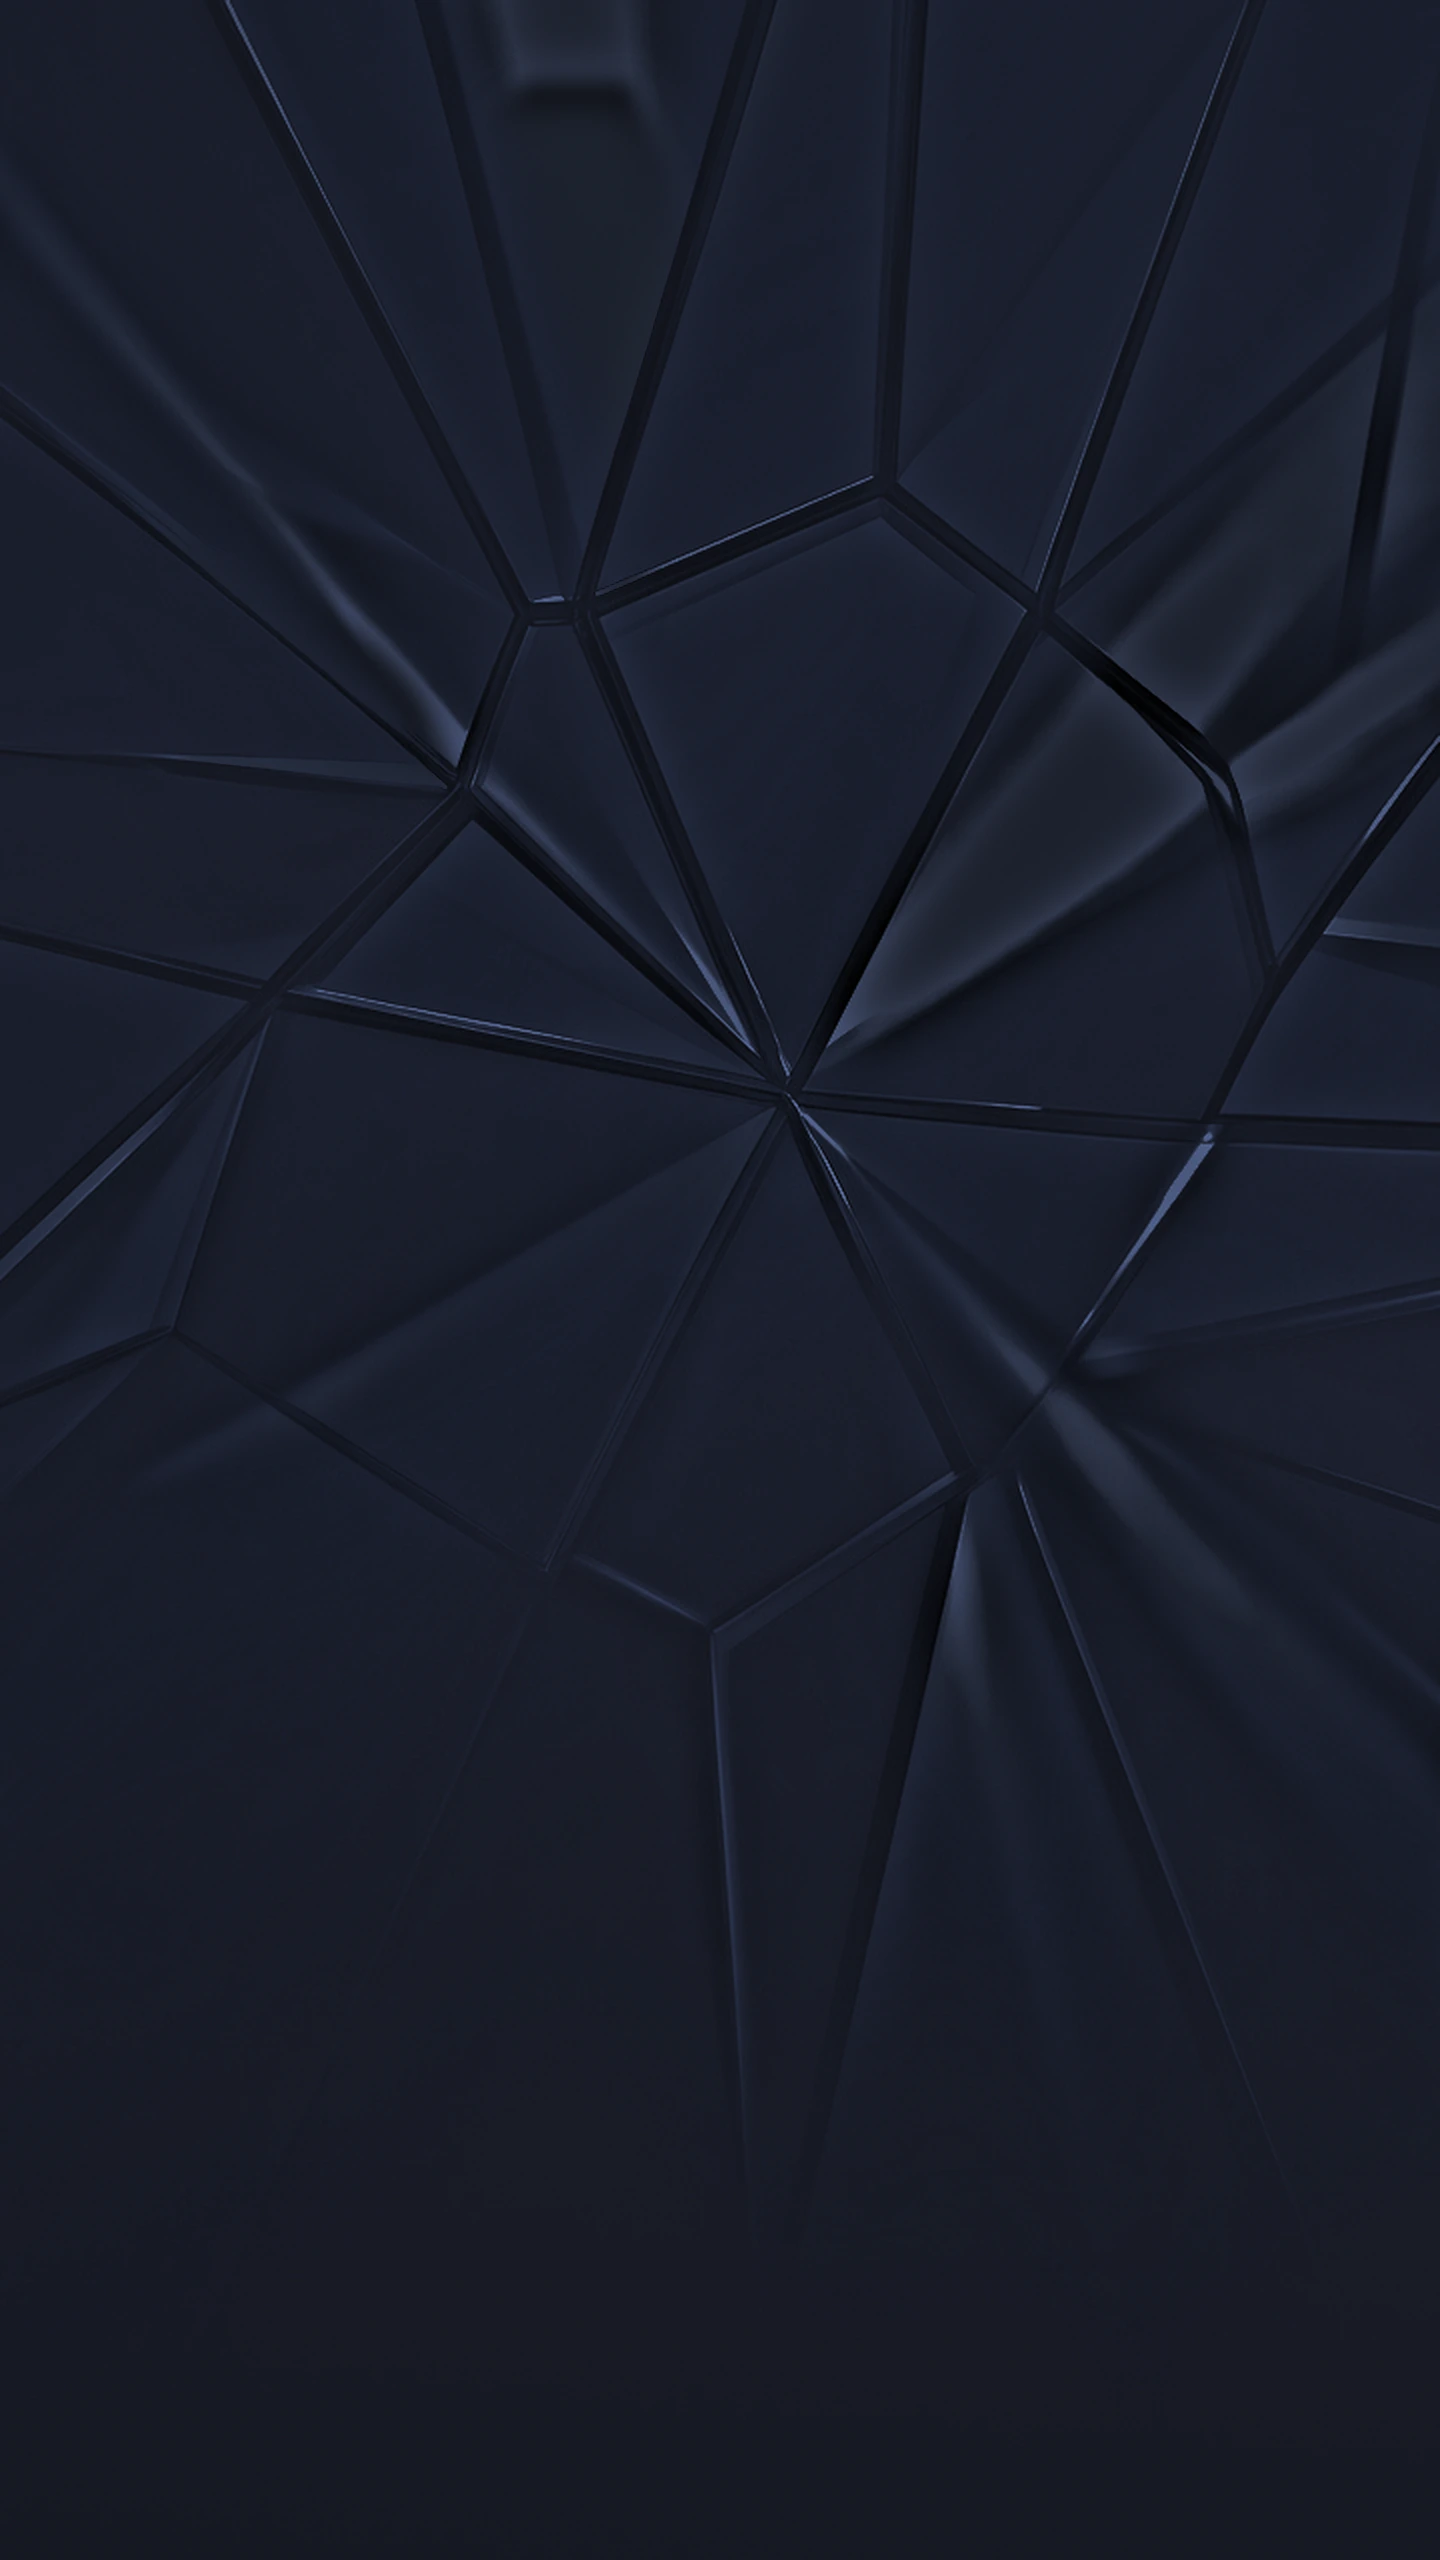
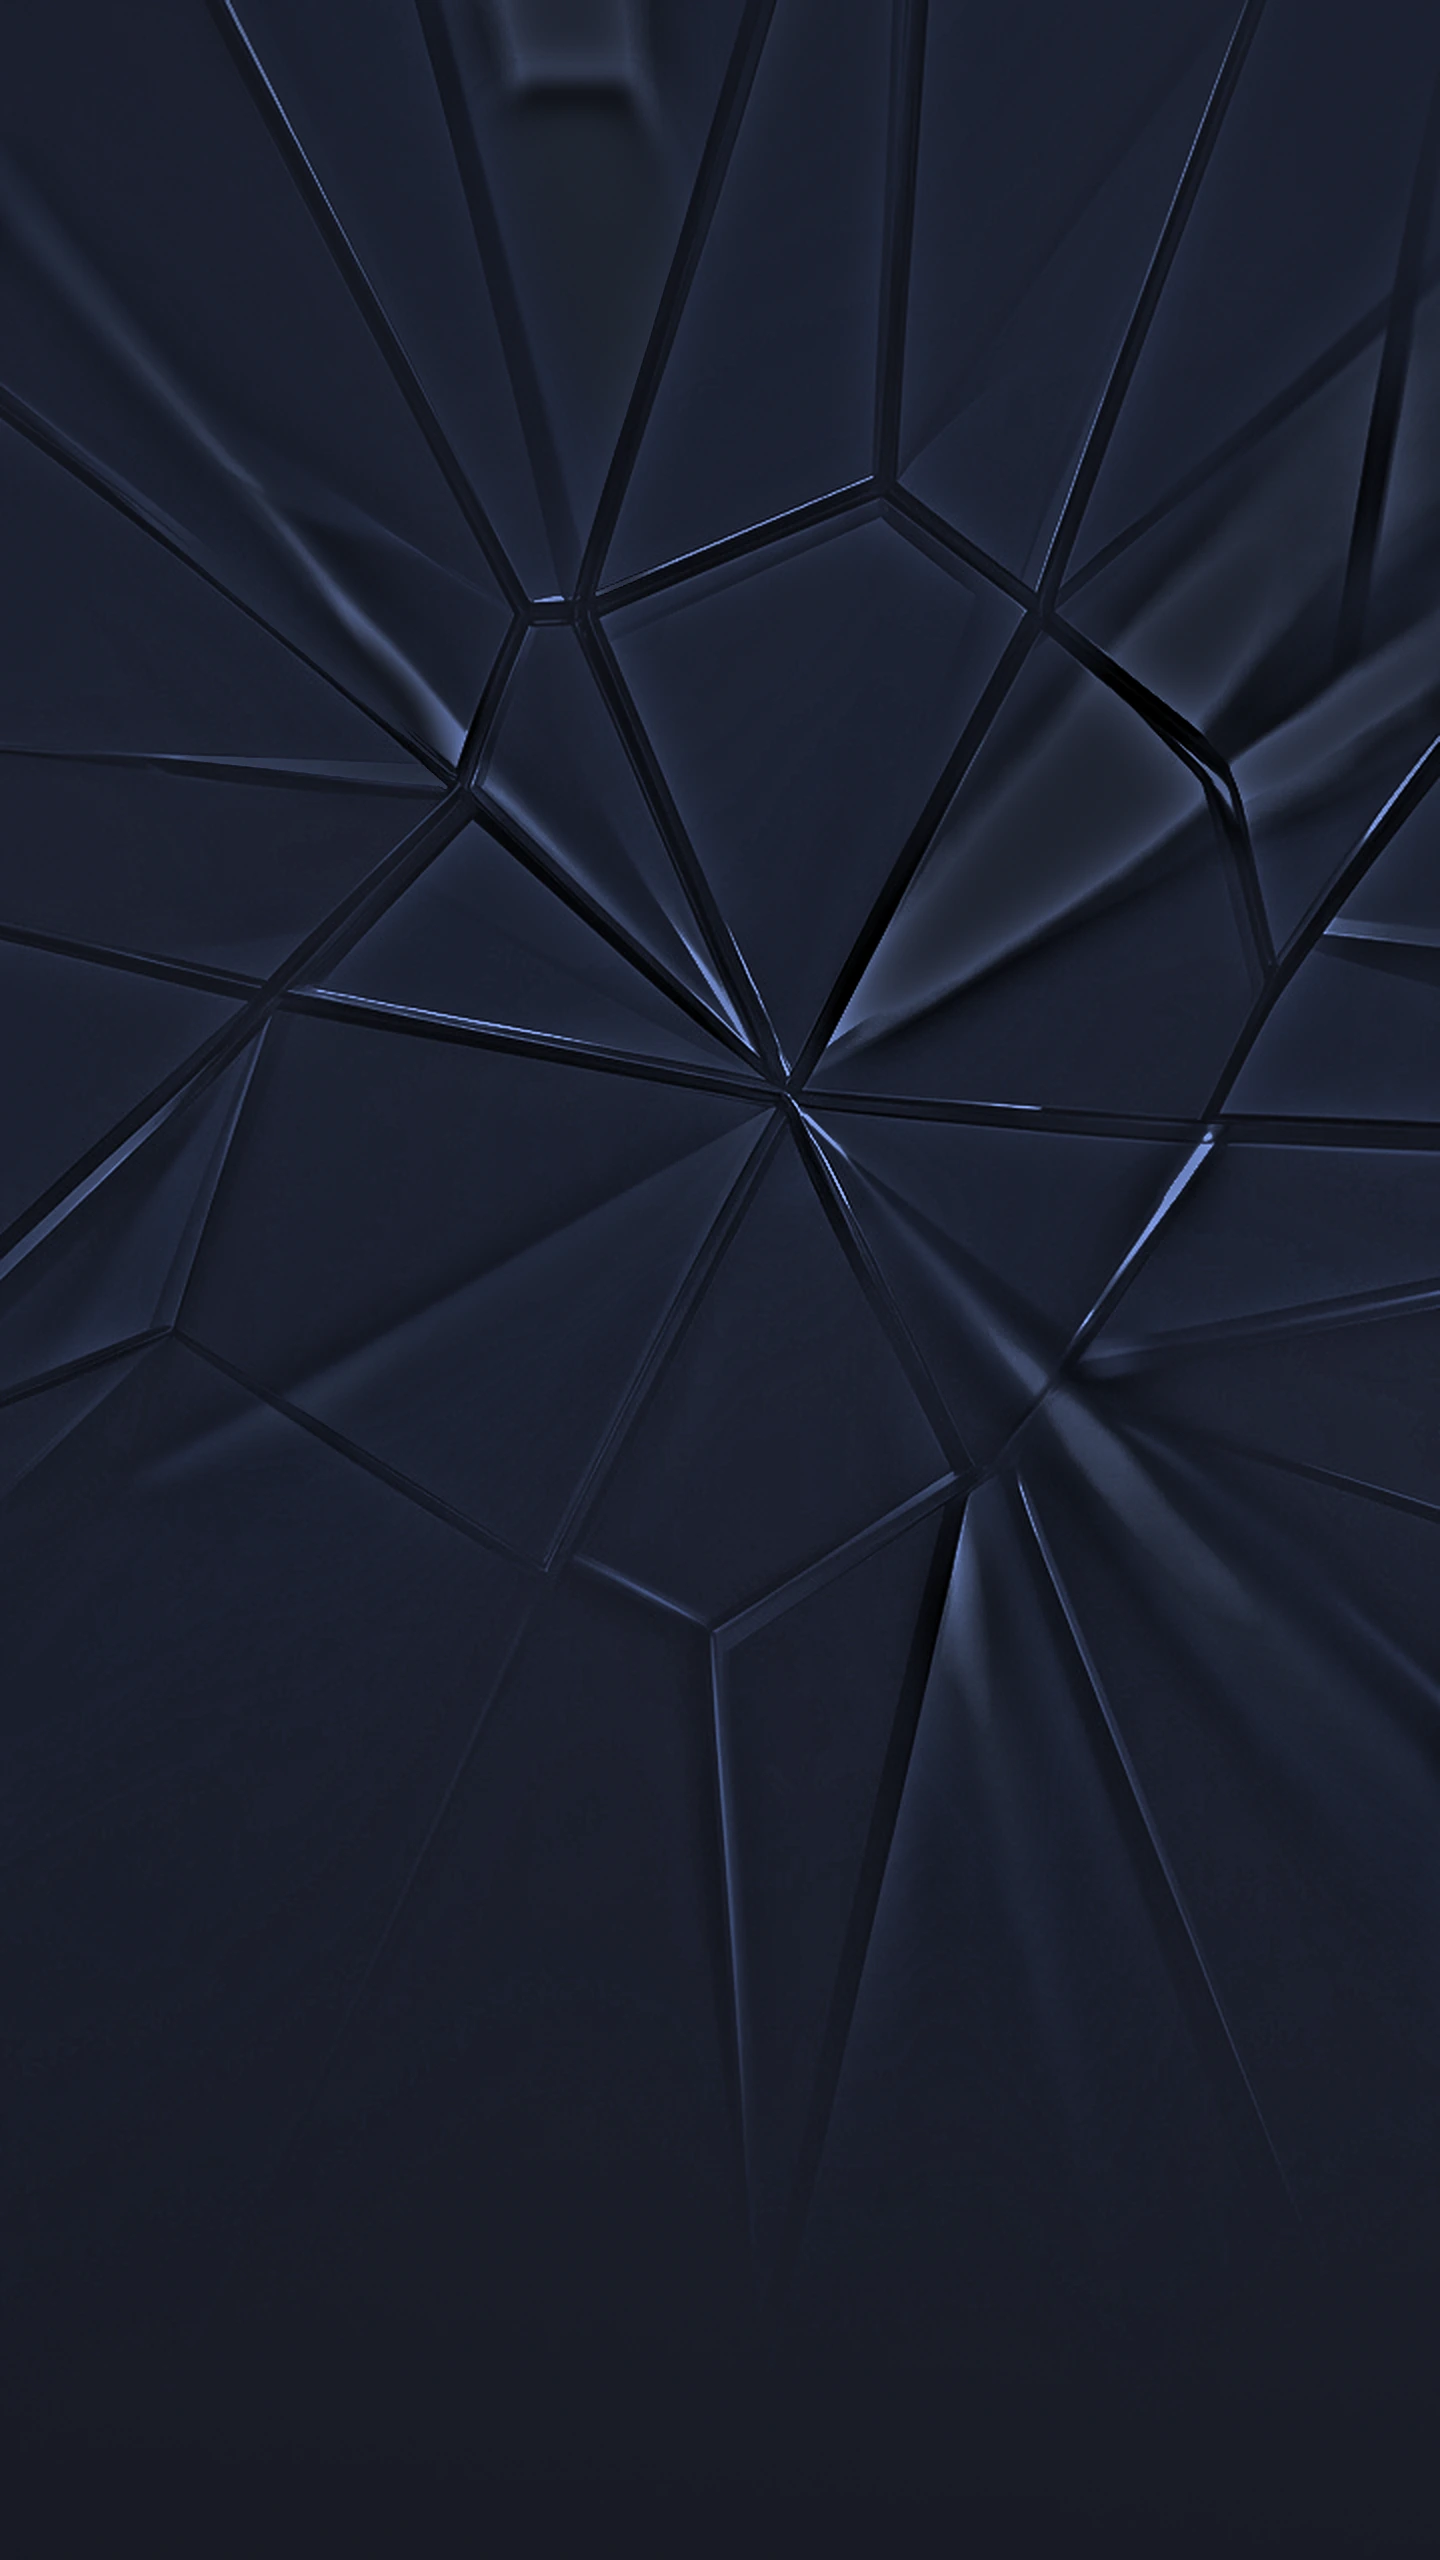
Put the wallet crystal's shine back into the facet breaks

diff --git a/src/components/WalletSky.jsx b/src/components/WalletSky.jsx
@@ -8,12 +8,12 @@ import { assetUrl } from '../lib/format.js'
  * full circle the highlight can travel anywhere. App.css does the weighting.
  */
 const LIGHT_FRAMES = [
-  'wallet-crystal-1.webp?v=facet3',
-  'wallet-crystal-2.webp?v=facet3',
-  'wallet-crystal-3.webp?v=facet3',
-  'wallet-crystal-4.webp?v=facet3',
-  'wallet-crystal-5.webp?v=facet3',
-  'wallet-crystal-6.webp?v=facet3',
+  'wallet-crystal-1.webp?v=facet4',
+  'wallet-crystal-2.webp?v=facet4',
+  'wallet-crystal-3.webp?v=facet4',
+  'wallet-crystal-4.webp?v=facet4',
+  'wallet-crystal-5.webp?v=facet4',
+  'wallet-crystal-6.webp?v=facet4',
 ]
 
 export function WalletSky() {
